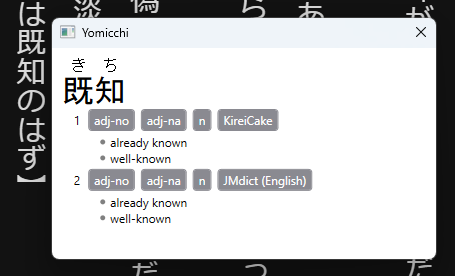
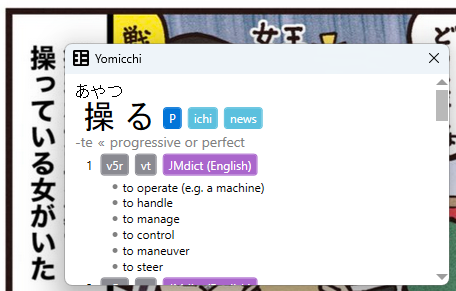
feat: Add tag colors (#4)

diff --git a/src/Yomicchi.Desktop/Services/TermV3Loader.cs b/src/Yomicchi.Desktop/Services/TermV3Loader.cs
@@ -7,13 +7,18 @@ using System.Text.RegularExpressions;
 
 namespace Yomicchi.Desktop.Services
 {
-    public class TermV3Loader
+    public partial class TermV3Loader
     {
         private static readonly string DictionaryDirectory
             = Path.Combine(
                 Environment.GetFolderPath(Environment.SpecialFolder.LocalApplicationData),
                 "Yomicchi",
                 "Dictionaries");
+
+        [GeneratedRegex("tag_bank_.*\\.json")]
+        private static partial Regex TagBankPattern();
+        [GeneratedRegex("term_bank_.*\\.json")]
+        private static partial Regex TermBankPattern();
 
         public IEnumerable<Term> Load(string filepath)
         {
@@ -34,11 +39,22 @@ namespace Yomicchi.Desktop.Services
                 yield break;
             }
 
+
+            var tagCategories = new TagCategories();
+            foreach (var tagFile in archive.Entries.Where(
+                entry => TagBankPattern().IsMatch(entry.Name)))
+            {
+                var tags = JsonConvert.DeserializeObject<IEnumerable<Tag>>(tagFile.Read(), new TagJsonConverter())
+                    ?? new List<Tag>();
+
+                tagCategories.AddTags(tags);
+            }
+
             foreach (var termFile in archive.Entries.Where(
-                entry => Regex.IsMatch(entry.Name, "term_bank_.*\\.json")))
+                entry => TermBankPattern().IsMatch(entry.Name)))
             {
                 var terms = JsonConvert.DeserializeObject<IEnumerable<Term>>(
-                    termFile.Read(), new TermV3JsonConverter(source));
+                    termFile.Read(), new TermV3JsonConverter(source, tagCategories));
 
                 if (terms == null)
                 {
@@ -53,12 +69,43 @@ namespace Yomicchi.Desktop.Services
         }
     }
 
+    internal class TagJsonConverter : JsonConverter
+    {
+        public override bool CanConvert(Type objectType)
+        {
+            return objectType == typeof(Tag);
+        }
+
+        public override object? ReadJson(JsonReader reader, Type objectType, object? existingValue, JsonSerializer serializer)
+        {
+            var array = JArray.Load(reader);
+            if (array.Count != 5)
+            {
+                throw new ArgumentException("Invalid format for tag bank.");
+            }
+
+            var name = array[0]?.Value<string>() ?? "name";
+            var category = array[1]?.Value<string>() ?? "default";
+            var order = array[2]?.Value<int>() ?? 0;
+
+            return new Tag(name, category, order);
+        }
+
+        public override void WriteJson(JsonWriter writer, object? value, JsonSerializer serializer)
+        {
+            throw new NotImplementedException();
+        }
+    }
+
     internal class TermV3JsonConverter : JsonConverter
     {
         private readonly Source _source;
-        public TermV3JsonConverter(Source source)
+        private readonly TagCategories _categories;
+
+        public TermV3JsonConverter(Source source, TagCategories categories)
         {
             _source = source;
+            _categories = categories;
         }
 
         public override bool CanConvert(Type objectType)
@@ -80,7 +127,7 @@ namespace Yomicchi.Desktop.Services
             var partsOfSpeech = array[2]?
                 .Value<string>()?
                 .Tokenize()
-                .Select(strPartOfSpeech => new Tag(strPartOfSpeech))
+                .Select(strPartOfSpeech => _categories.GetFullTag(strPartOfSpeech))
                 .ToList();
 
             var popularityScore = array[4]?.Value<int>() ?? 0;
@@ -92,11 +139,11 @@ namespace Yomicchi.Desktop.Services
             var tags = array[7]?
                 .Value<string>()?
                 .Tokenize()
-                .Select(strTag => new Tag(strTag))
+                .Select(strTag => _categories.GetFullTag(strTag))
                 .ToList();
 
             var definition = new Definition(
-                source: new Tag(_source.Title),
+                source: new Tag(_source.Title, "dictionary"),
                 definitions: definitions ?? [],
                 partsOfSpeech: partsOfSpeech ?? []
             );

diff --git a/src/Yomicchi.Core/Tag.cs b/src/Yomicchi.Core/Tag.cs
@@ -1,27 +1,29 @@
 namespace Yomicchi.Core
 {
-    public class Tag
+    public partial class Tag
     {
+        private const string DefaultCategory = "default";
         private const string DefaultTagColor = "#8a8a91";
 
         public string Name { get; }
+        public string Category { get; }
         public string Color { get; }
+        public int Order { get; }
 
-        public Tag(string name)
+        public Tag(string name) : this(name, DefaultCategory, 0)
         {
-            Name = name;
-            Color = DefaultTagColor;
-        }
-        public Tag(string name, string category)
-        {
-            Name = name;
-            Color = GetColor(category);
         }
 
-        private string GetColor(string category)
+        public Tag(string name, string category) : this(name, category, 0)
+        { 
+        }
+
+        public Tag(string name, string category, int order)
         {
-            // TODO: Get actual color
-            return DefaultTagColor;
+            Name = name;
+            Category = category;
+            Color = Colors.TryGetValue(Category, out var color) ? color : DefaultTagColor;
+            Order = order;
         }
     }
 }

diff --git a/src/Yomicchi.Core/TagColors.cs b/src/Yomicchi.Core/TagColors.cs
@@ -1,0 +1,21 @@
+namespace Yomicchi.Core
+{
+    public partial class Tag
+    {
+        private static readonly Dictionary<string, string> Colors =
+            new()
+            {
+                { "default", "#8a8a91" },
+                { "name", "#b6327a" },
+                { "expression", "#f0ad4e" },
+                { "popular", "#0275d8" },
+                { "frequent", "#5bc0de" },
+                { "archaism", "#d9534f" },
+                { "dictionary", "#aa66cc" },
+                { "frequency", "#5cb85c" },
+                { "partOfSpeech", "#8a8a91" },
+                { "search", "#8a8a91" },
+                { "pronunciationDictionary", "#6640be" },
+            };
+    }
+}

diff --git a/src/Yomicchi.Core/TagCategories.cs b/src/Yomicchi.Core/TagCategories.cs
@@ -1,0 +1,30 @@
+namespace Yomicchi.Core
+{
+    public class TagCategories
+    {
+        private readonly Dictionary<string, Tag> _categories;
+
+        public TagCategories() 
+        {
+            _categories = new Dictionary<string, Tag>();
+        }
+
+        public void AddTags(IEnumerable<Tag> tags)
+        {
+            foreach (var tag in tags)
+            {
+                _categories.TryAdd(tag.Name, tag);
+            }
+        }
+
+        public Tag GetFullTag(string name)
+        {
+            if (_categories.TryGetValue(name, out var tag))
+            {
+                return tag;
+            }
+
+            return new Tag(name);
+        }
+    }
+}

diff --git a/src/Yomicchi.Core/Definition.cs b/src/Yomicchi.Core/Definition.cs
@@ -9,7 +9,7 @@
         public Definition(Tag source, IEnumerable<Tag> partsOfSpeech, IEnumerable<string> definitions)
         {
             Source = source;
-            PartsOfSpeech = partsOfSpeech;
+            PartsOfSpeech = partsOfSpeech.OrderBy(tag => tag.Order);
             Definitions = definitions;
         }
     }

diff --git a/src/Yomicchi.Core/Term.cs b/src/Yomicchi.Core/Term.cs
@@ -32,7 +32,7 @@ namespace Yomicchi.Core
 
         public void SetTags(IEnumerable<Tag> tags)
         {
-            Tags = tags;
+            Tags = tags.OrderBy(tag => tag.Order);
         }
         public void SetInflections(IEnumerable<string> inflections)
         {

diff --git a/README.md b/README.md
@@ -41,7 +41,7 @@ The dictionary should appear as below when it is successfully loaded.
 ![Yomicchi with dictionaries](./media/yomicchi-main.png)
 
 ## Usage
-Hold `Ctrl` to switch to Snipping mode. You should see your entire screen dim a little bit. While in Snipping mode, drag your mouse over the Japanese text. There should be a blue bounding box to indicate the area that will be selected.
+Press and hold the `Ctrl` key to switch to Snipping mode. You should see your entire screen dim a little bit. While in Snipping mode, drag your mouse over the Japanese text. You should see a blue bounding box appear, indicating the selected area.
 
 ![Snipping mode example](./media/example-snip.png)
 
